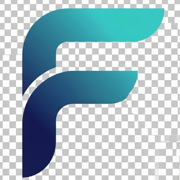
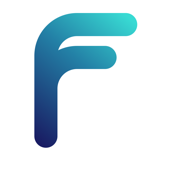
Create clean brand asset set and update site branding

diff --git a/src/components/BrandLogo.jsx b/src/components/BrandLogo.jsx
@@ -1,6 +1,7 @@
 import React from "react";
 
-const brandIcon = `${process.env.PUBLIC_URL}/brand-icon.png`;
+const brandMark = `${process.env.PUBLIC_URL}/brand/brand-mark.svg`;
+const brandLogoHorizontal = `${process.env.PUBLIC_URL}/brand/brand-logo-horizontal.svg`;
 
 const BrandLogo = ({
   caption = "",
@@ -10,29 +11,26 @@ const BrandLogo = ({
   captionClassName = "",
 }) => (
   <div
-    className={`${compact ? "flex items-center justify-center" : "flex items-center gap-3"} ${className}`.trim()}
+    className={`${compact ? "flex items-center justify-center" : "flex flex-col"} ${className}`.trim()}
   >
-    <span
-      className={`flex shrink-0 items-center justify-center overflow-hidden rounded-[16px] border border-ink-100/80 bg-white/90 shadow-[0_10px_30px_rgba(28,23,19,0.08)] ${
-        compact ? "h-10 w-10" : "h-11 w-11 sm:h-12 sm:w-12"
-      } ${imageClassName}`.trim()}
-    >
+    {compact ? (
       <img
-        src={brandIcon}
+        src={brandMark}
         alt="Fliprop"
-        className={`object-contain ${compact ? "h-[118%] w-[118%]" : "h-[122%] w-[122%]"}`.trim()}
+        className={`h-10 w-10 object-contain ${imageClassName}`.trim()}
       />
-    </span>
-    {!compact ? (
-      <div className="min-w-0">
-        <p className="font-display text-[1.1rem] leading-none tracking-[-0.02em] text-ink-900 sm:text-[1.24rem]">
-          Fliprop
-        </p>
+    ) : (
+      <>
+        <img
+          src={brandLogoHorizontal}
+          alt="Fliprop"
+          className={`h-10 w-auto max-w-[170px] object-contain sm:h-11 sm:max-w-[188px] ${imageClassName}`.trim()}
+        />
         {caption ? (
           <p className={`mt-1 text-xs text-ink-500 ${captionClassName}`.trim()}>{caption}</p>
         ) : null}
-      </div>
-    ) : null}
+      </>
+    )}
   </div>
 );
 

diff --git a/public/index.html b/public/index.html
@@ -2,6 +2,7 @@
 <html lang="en">
   <head>
     <meta charset="utf-8" />
+    <link rel="icon" type="image/svg+xml" href="%PUBLIC_URL%/brand/brand-mark.svg" />
     <link rel="icon" type="image/png" sizes="64x64" href="%PUBLIC_URL%/favicon.png" />
     <link rel="shortcut icon" type="image/png" href="%PUBLIC_URL%/favicon.png" />
     <meta name="viewport" content="width=device-width, initial-scale=1" />

diff --git a/src/components/CompsReportPdfTemplate.jsx b/src/components/CompsReportPdfTemplate.jsx
@@ -1,7 +1,7 @@
 import React, { useMemo } from "react";
 import { formatCurrency, formatDate } from "../utils/compsReport";
 
-const logo = `${process.env.PUBLIC_URL}/brand-icon.png`;
+const logo = `${process.env.PUBLIC_URL}/brand/brand-mark.svg`;
 
 const formatNumber = (value, suffix = "") => {
   if (value === null || value === undefined || value === "") return "—";
